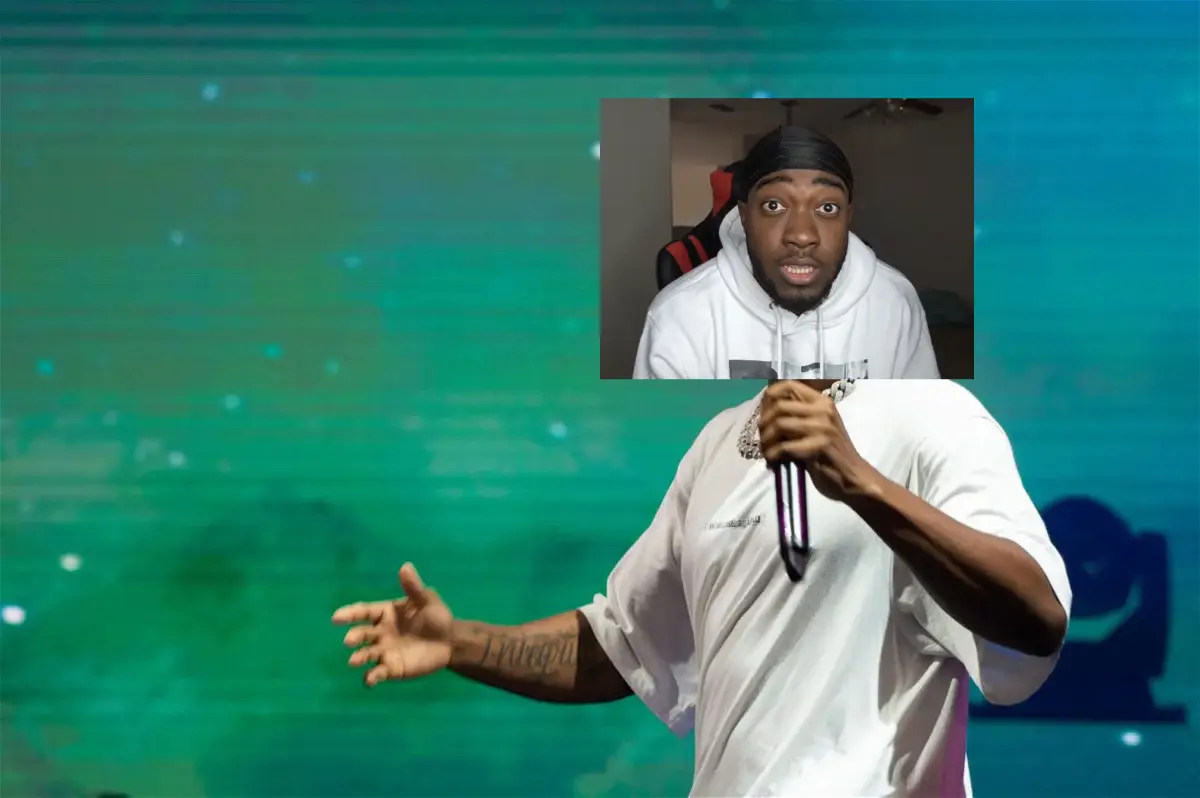
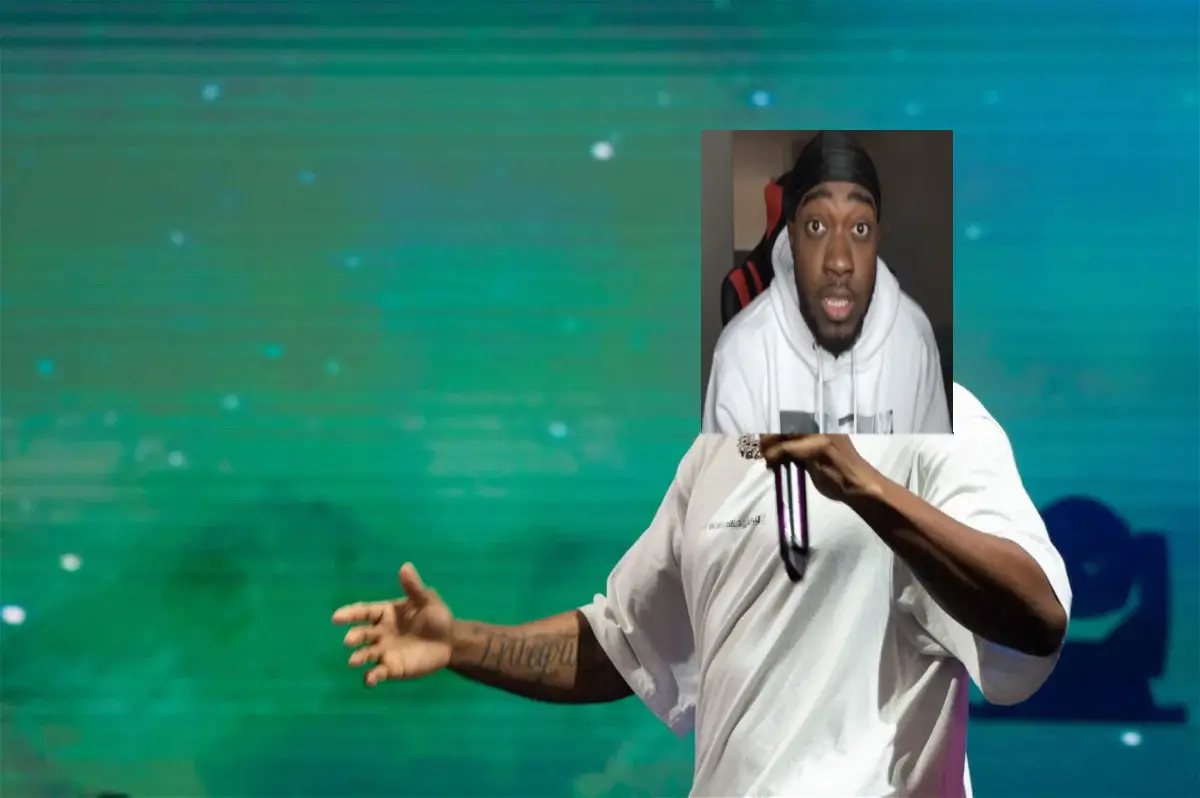
fixed header and navbar and hero section

Changed region(s): [[0.4933, 0.1203, 0.8325, 0.5714]]

diff --git a/index.html b/index.html
@@ -9,33 +9,36 @@
     <link rel="icon" href="images/ra_logo.jpg">
 </head>
 <body>
-   <div class="wrapper">
-    <header>
-
-        <a href="index.html"><img src="images/ra_logo.jpg" alt="rizz academy logo" class="ra_logo_fr"></a>
-
-        <nav>
-            <ul>
-                <li><a href="index.html">About</a></li>
-                <li><a href="index.html">Admissions</a></li>
-                <li><a href="index.html">Rizzplacement Test</a></li>
-                <li><a href="index.html">Academics</a></li>
-                <li><a href="index.html">Before & After</a></li>
-                <li><a href="index.html">Testimonials</a></li>
-            </ul>
-        </nav>
-    </header>
-    <main>
         <section id="hero-section">
-            <div class="hero">
-                <img src="images/be_the_pic(1).jpg" alt="KSI showing us something" class="ksi_pic"> 
+            <div class="wrapper">
+    <header>
+        <div class="logo-in-header">
+            <a href="index.html"><img src="images/ra_logo.jpg" alt="rizz academy logo" class="ra_logo_fr"></a>
+        </div>
+                <nav>
+                    <ul>
+                        <li><a href="#about">About</a></li>
+                        <li><a href="index.html">Admissions</a></li>
+                        <li><a href="index.html">Rizzplacement Test</a></li>
+                        <li><a href="index.html">Academics</a></li>
+                        <li><a href="index.html">Before & After</a></li>
+                        <li><a href="index.html">Testimonials</a></li>
+                    </ul>
+                </nav>
+                
+    </header>
+                <div class="hero-text">
+                    <h1>Be The Rizz God! <br> Not the Jizz God!</h1>
+                </div>
             </div>
         </section>
+<main>
     <section id="about">
+
 		<h2>About Rizz Academy</h2>
         <div class="wrapper">
             <div class="campus-pic">
-                <img src="images/campus_pic.png" alt="Rizz Academy campus"style="float: left; max-width: 50%; margin-right: 20px;">
+                <img src="images/campus_pic.png" alt="Rizz Academy campus">
             </div>
             <div class="campus-description">
                 <p>Rizz Academy is an institution that improves individuals' rizz. Students must be 16 or older, there is no limit to how high the age range can go, we pair students in their age class so there is plenty of separation. Rizz actually comes from the word charisma. It means "spitting game" or the ability to "pull". Rizz is defined as skill in charming or seducing a potential romantic partner. Rizz Academy enhances your strengths and improves your rizz. If you graduate from the academy and don't have a baddie within 2 years, you get half of your tuition money back. We are in our first year of production so you all are lucky enough to be the academy's first alumni! For you to be admitted, you must take our <a href="index.html">RIZZPLACEMENT TEST</a> and achieve a score of 5 or more, if you're below that, there's no hope for you. If you have any questions, that's tough because we don't have any contact info. However, you can visit our campus (shown in picture). All of our classes are online but we are going to gatekeep which platform. Click the navigation to see more about this academy. Thank you for visiting!</p>
@@ -50,13 +53,13 @@
             <p></p>
         </div>
         <div class="right-avg-student">
-            <p>Average Rizz Academy Student: </p>
+            <p>Average Rizz Academy Senior: </p>
             <img src="images/rizz_pic_main.webp" alt="rizz ahh pic">
         </div>
         </div>
     </section>
-    </main>
    </div> 
+</main>
 </body>
 </html>
 

diff --git a/styles.scss b/styles.scss
@@ -1,9 +1,11 @@
 :root {
-        --main-color: #A62921;
-      }
-@import url('https://fonts.googleapis.com/css2?family=Poppins:wght@400;700&display=swap');
-/* Global styles */
-body::-webkit-scrollbar {
+    --main-color: #A62921;
+  }
+  
+  @import url('https://fonts.googleapis.com/css2?family=Poppins:wght@400;700&display=swap');
+  
+  /* Global styles */
+  body::-webkit-scrollbar {
     width: 0.3rem;
   }
   
@@ -14,32 +16,121 @@ body::-webkit-scrollbar {
   body::-webkit-scrollbar-thumb {
     background: #A62921;
   }
-
-  html{
+  
+  html {
     font-family: 'Poppins';
     scroll-behavior: smooth;
     font-size: 16px;
-    margin: 0 !important;
-    padding: 0 !important;
-    .ra_logo_fr{
-        border-radius: 70px;
+    #hero-section{
+        background: url(images/be_the_pic.webp);
+            height: 100vh;
+            width: 100%;
+            background-position: center;
+            background-repeat: no-repeat;
+            background-size: cover;
     }
-    
-    .hero{
+    body{
         margin: 0 !important;
         padding: 0 !important;
+    }
+    
+  
+    header{
+        display: flex;
+        justify-content: space-between;
+        align-items: center;
+        background-color: #A42C25;
+        padding-right: 2em;
         img{
-            width: 100%;
-            margin: 0 0 0 0;
-            padding: 0 0 0 0;
+            transition: transform .7s ease-in-out;
+        }
+        img:hover {
+            transform: rotate(360deg);
+          }
+        nav{
+            justify-content:space-around;
+            ul{
+                display: flex;
+                justify-content: space-between;
+                li{
+                    list-style: none;
+                    margin-left: 1em;
+                    margin-right: 1em;
+                    a{
+                        text-decoration: none;
+                        color: white;
+                        font-weight: bold;
+                        font-size: large;
+                    }
+                    a:hover{
+                        // color:#5f0ef5;
+                        // background-color: rgba(#5f0ef5, .8);
+                        border-bottom: 3px solid white;
+                        // font-size:larger ;
+                        transition-duration: .2s;
+                        padding-bottom: 3px;
+                    }
+                }
+            }
         }
     }
-    #about{
-        .wrapper{
-            display: flex;
+    .ra_logo_fr {
+        width: 50px;
+        height: 50px;
+        border-radius: 100px;
+        margin-left: 1em;
+        margin-top: 1em;
+    }
+  
+    .hero-img {
+      margin: 0 !important;
+      padding: 0 !important;
+      height: 100vh;
+    
+      img {
+        width: 100%;
+        margin: 0;
+        padding: 0;
+        height: 101vh;
+        
+      }
+    }
+
+    .hero-text{
+        width: 50%;
+        color: white;
+        margin: 0;
+        padding: 0;
+        font-size: 3em;
+        transform: translate(1em, 2.5em);
+        // padding-left: 1em;
+        // padding-top: 2.5em;
+        rotate: 345deg;
+    }
+  
+    #about {
+        text-align: center;
+        padding-top: 5em;
+      .wrapper {
+        display: flex;
+        padding: 1em;
+        align-items: center;
+        justify-content: center;
+        .campus-pic{
+            flex: 1;
+            img{
+                max-width: 100%;
+            }  
+            margin-right: 2em;
         }
+        .campus-description{
+            flex: 1;
+            p{
+                margin-bottom: 0;
+                margin-top: 0;
+            }
+        }
+      }
     }
   }
-
-
-
+  

diff --git a/styles.css b/styles.css
@@ -20,21 +20,103 @@ html {
   font-family: "Poppins";
   scroll-behavior: smooth;
   font-size: 16px;
+}
+html #hero-section {
+  background: url(images/be_the_pic.webp);
+  height: 100vh;
+  width: 100%;
+  background-position: center;
+  background-repeat: no-repeat;
+  background-size: cover;
+}
+html body {
   margin: 0 !important;
   padding: 0 !important;
+}
+html header {
+  display: flex;
+  justify-content: space-between;
+  align-items: center;
+  background-color: #A42C25;
+  padding-right: 2em;
+}
+html header img {
+  transition: transform 0.7s ease-in-out;
+}
+html header img:hover {
+  transform: rotate(360deg);
+}
+html header nav {
+  justify-content: space-around;
+}
+html header nav ul {
+  display: flex;
+  justify-content: space-between;
+}
+html header nav ul li {
+  list-style: none;
+  margin-left: 1em;
+  margin-right: 1em;
+}
+html header nav ul li a {
+  text-decoration: none;
+  color: white;
+  font-weight: bold;
+  font-size: large;
+}
+html header nav ul li a:hover {
+  border-bottom: 3px solid white;
+  transition-duration: 0.2s;
+  padding-bottom: 3px;
 }
 html .ra_logo_fr {
-  border-radius: 70px;
+  width: 50px;
+  height: 50px;
+  border-radius: 100px;
+  margin-left: 1em;
+  margin-top: 1em;
 }
-html .hero {
+html .hero-img {
   margin: 0 !important;
   padding: 0 !important;
+  height: 100vh;
 }
-html .hero img {
+html .hero-img img {
   width: 100%;
-  margin: 0 0 0 0;
-  padding: 0 0 0 0;
+  margin: 0;
+  padding: 0;
+  height: 101vh;
+}
+html .hero-text {
+  width: 50%;
+  color: white;
+  margin: 0;
+  padding: 0;
+  font-size: 3em;
+  transform: translate(1em, 2.5em);
+  rotate: 345deg;
+}
+html #about {
+  text-align: center;
+  padding-top: 5em;
 }
 html #about .wrapper {
   display: flex;
+  padding: 1em;
+  align-items: center;
+  justify-content: center;
+}
+html #about .wrapper .campus-pic {
+  flex: 1;
+  margin-right: 2em;
+}
+html #about .wrapper .campus-pic img {
+  max-width: 100%;
+}
+html #about .wrapper .campus-description {
+  flex: 1;
+}
+html #about .wrapper .campus-description p {
+  margin-bottom: 0;
+  margin-top: 0;
 }/*# sourceMappingURL=styles.css.map */
